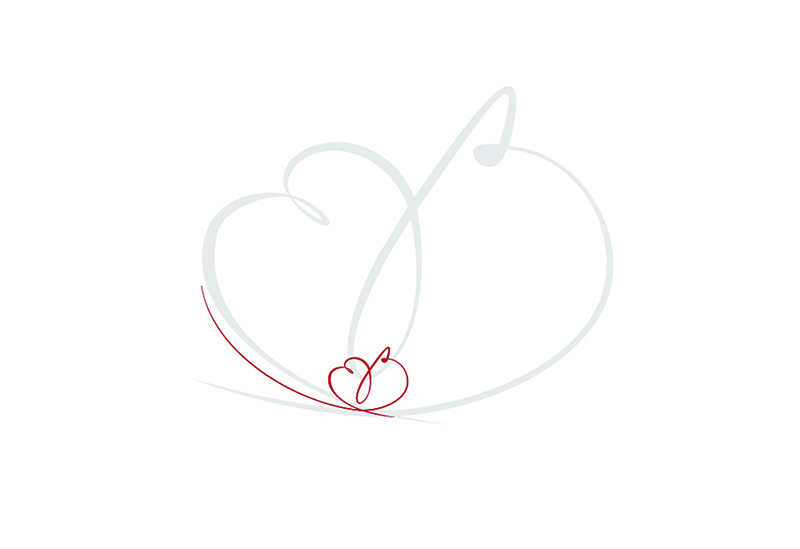
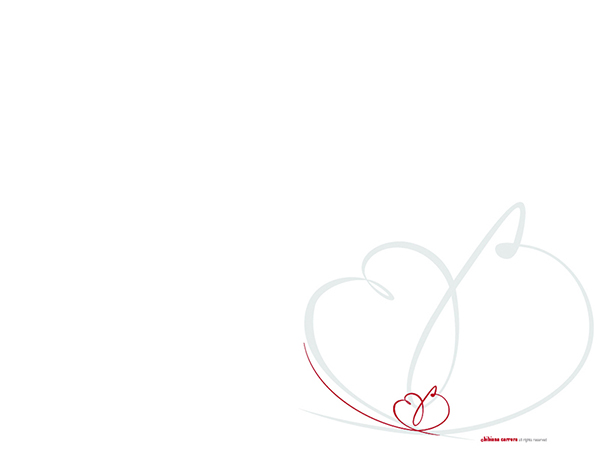
layout MEDIUM: only last breakpoint left

diff --git a/_css/screen_layout_medium.css b/_css/screen_layout_medium.css
@@ -14,8 +14,11 @@ body {
 }
 #outerWrapper {
    position: relative;
+    background-image: url("../_media/bixi-background_medium990.jpg");
+        background-position: right bottom;
+    background-repeat: no-repeat;
+    background-attachment: scroll;
 }
-
 
  header .h_bigOne
  {
@@ -28,7 +31,6 @@ body {
 
 }
 
-/* Layout Large Screens (default for older browsers) */
 header
 {
     /*height: 13%;*/
@@ -61,42 +63,34 @@ header .h_homeLink{
 }  
 
 article { 
-    background-image: url("../_media/bixi-background_medium.jpg");
-    background-position: top center;
-    background-repeat: no-repeat;
-    background-attachment: scroll;
-    min-height: 100%;
-    min-width: 100%;    
-    max-width: 100%;
-    height: 80%;
-    width: 50%;
-    margin: 0px auto 0px auto;
 
-  /*  width: 100%;
+     width: 100%;
+    height: 80%; /*  width: 100%;
     height: 80%;*/
 
 }
 article section {
     /*background:rgb(255,255,0);*/
     width: 50%;
-    height: 60%;
+    height: 70%;
    float: left;
+   position: relative;
 }
 .art_textBox{
   padding: 1em;
-  font-size: 1.1em;
+  font-size: 1.3em;
   letter-spacing: 1px;
 }
 .circle {
   position: relative;
-  width: 70px;
-  height: 70px;
+  width: 80px;
+  height: 80px;
 }
 
 .circle span {
   display: block;
   position: absolute;
-  font-size: 1.1em;
+  font-size: 1.3em;
   text-align: center;
   top: 50%;
   left: 50%;
@@ -114,24 +108,24 @@ article aside
 }
 article aside div
 {  
-    width: 200px;
+    width: 230px;
     height: 80px;
-    font-size: 1.5em;
+    font-size: 1.8em;
     color: black;
 
 }
 article nav {
-    width: 100%;
+    width: 50%;
     height: 20%;
     position: absolute;
-    bottom: 0px;
-    left: 25%;
-
+    float: left;
 }
 .aside_button{
   width: 50px;
   height: 50px;
 }
+
+
 
 .pointerLeft{
   width: 15px;
@@ -147,26 +141,74 @@ footer
     float: left;
 }
 
-/*@media only screen and (min-width:481px) and (max-width:850px) {
+@media only screen and (min-width:480px) and (max-width:910px) {
+/*#outerWrapper {
+    background-image: url("../_media/bixi-background_medium850.jpg");
+}*/
 .circle {
   position: relative;
-  width: 60px;
-  height: 60px;
-}
-#outerWrapper {
-    background-image: url("../_media/bixi-background_medium600.jpg");
+  width: 70px;
+  height:70px;
 }
 header .h_homeLink{
-    float: right;
-    width: 60px;
-    height: 60px;
+
+    width: 70px;
+    height: 70px;
 } 
 article aside div
 {  
     margin-top: 20px;
-    width: 200px;
-    height: 80px;
-    font-size: 1.5em;
+    width: 240px;
+    height: 100px;
+    font-size: 1.8em;
+}
+.circle span {
+  font-size: 1.2em;
+}
+.aside_button{
+  width: 50px;
+  height: 50px;
+}
+
+.pointerLeft{
+  width: 18px;
+  height: 18px;
+}  
+
+.art_textBox{
+  padding: 1em;
+  font-size: 1.2em;
+  letter-spacing: 2px;
+}
+}
+@media only screen and (min-width:480px) and (max-width:840px) {
+#outerWrapper {
+    background-image: url("../_media/bixi-background_medium850.jpg");
+}
+.circle {
+  position: relative;
+  width: 60px;
+  height:60px;
+}
+header .h_homeLink{
+
+    width: 60px;
+    height: 60px;
+} 
+article aside
+{
+    width: 40%;
+
+}
+article aside div
+{  
+    margin-top: 20px;
+    width: 240px;
+    height: 100px;
+    font-size: 1.7em;
+}
+.circle span {
+  font-size: 1.1em;
 }
 .aside_button{
   width: 40px;
@@ -174,43 +216,93 @@ article aside div
 }
 
 .pointerLeft{
-  width: 13px;
-  height: 13px;
+  width: 15px;
+  height: 15px;
 }  
-}
-@media only screen and (min-width:481px) and (max-width:775px) {
-.circle {
-  width: 50px;
-  height: 50px;
-}
-header .h_homeLink{
 
-    width: 50px;
-    height: 50px;
-} 
-article aside div
-{  
-    margin-top: 20px;
-    width: 200px;
-    height: 80px;
-    font-size: 1.3em;
+.art_textBox{
+  padding: 1em;
+  font-size: 1.2em;
+  letter-spacing: 2px;
+}
+}
+@media only screen and (min-width:480px) and (max-width:840px) {
+article nav {
+    width: 20%;
+    height: 60%;
+    position: absolute;
+    float: left;
+    bottom: 20%;
+}
+article aside
+{
+    width: 35%;
+    height: 60%;
+    float: left;
+    margin-top: 8%;
+    position: relative;  
+    margin-left: -35%;
+}
+
+.circle {
+  width: 70px;
+  height:70px;
+  margin-top: 20px;
+  margin-bottom: 20px;
+
+}
+article section {
+    width: 45%;
+    height: 70%;
+   float: left;
+   position: relative;
+   margin-left: 20%;
+   margin-top: 10%;
+}
+.moreSpace{
+  display: none;
+
 }
 .circle span {
-  font-size: 1.0em;
+  font-size: 1.3em;
 }
 .aside_button{
-  width: 35px;
-  height: 35px;
+  width: 40px;
+  height: 40px;
+}
 }
 
-.pointerLeft{
-  width: 12px;
-  height: 12px;
-}  
-article nav {
-    width: 55%;
-    height: 20%;
+@media only screen and (min-width:480px) and (max-width:740px) {
+article section {
+    width: 50%;
+    height: 70%;
+   float: left;
+   position: relative;
+   margin-left: 25%;
+   margin-top: 10%;
+}
+
+.art_textBox{
+  padding: 1em;
+  font-size: 1.1em;
+  letter-spacing: 2px;
+}
+article aside
+{
+
+    margin-left: -45%;
+}
 
 }
-}*/
+@media only screen and (min-width:480px) and (max-width:540px) {
+ header .h_bigOne
+ {
+    float: left;
+    width: 70%;
+    height: 100%;
+    border-bottom: 2px solid #858282;
+    position: relative;
 
+}
+
+}

diff --git a/_css/screen_layout_large.css b/_css/screen_layout_large.css
@@ -43,7 +43,7 @@ body {
 header
 {
     /*height: 13%;*/
-    height: 100px;
+    height: 80px;
     /*background:rgb(255,255,255);*/
 
 }
